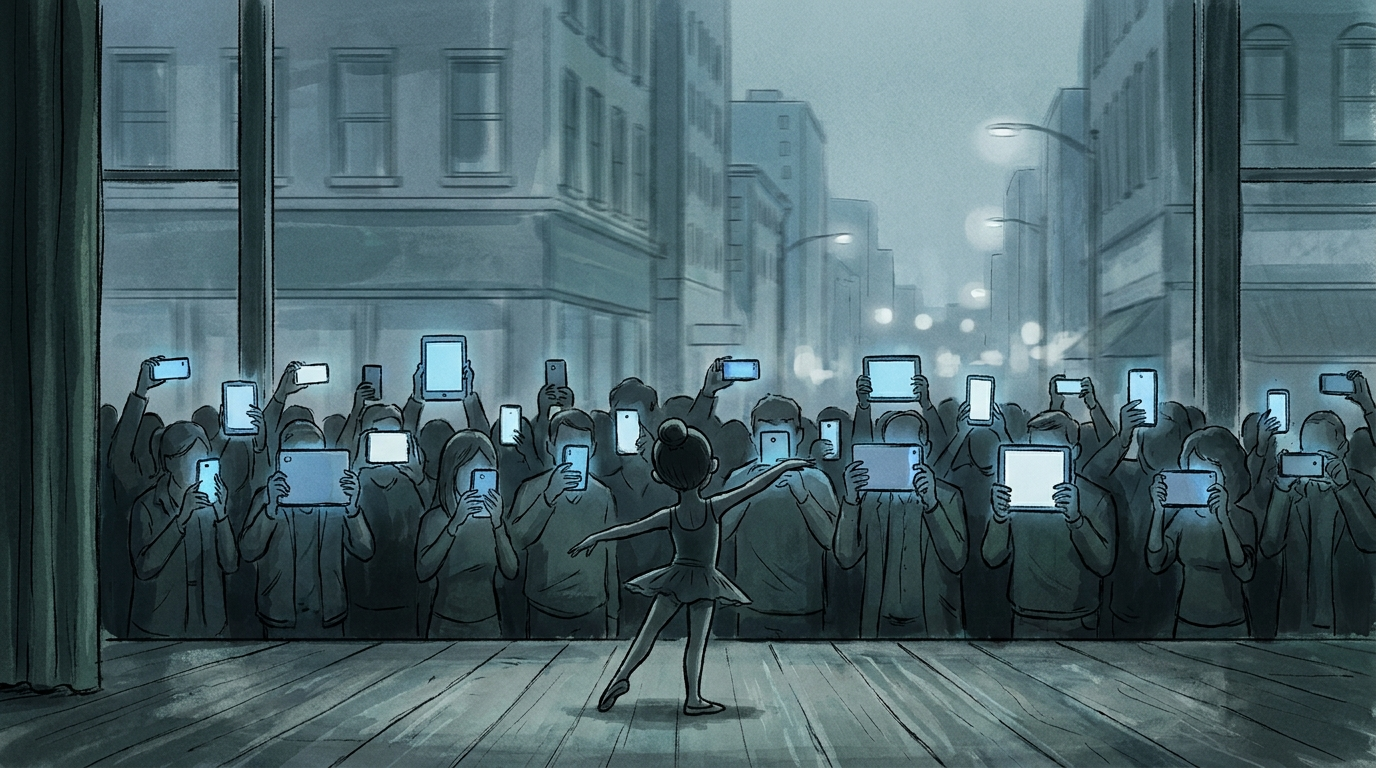
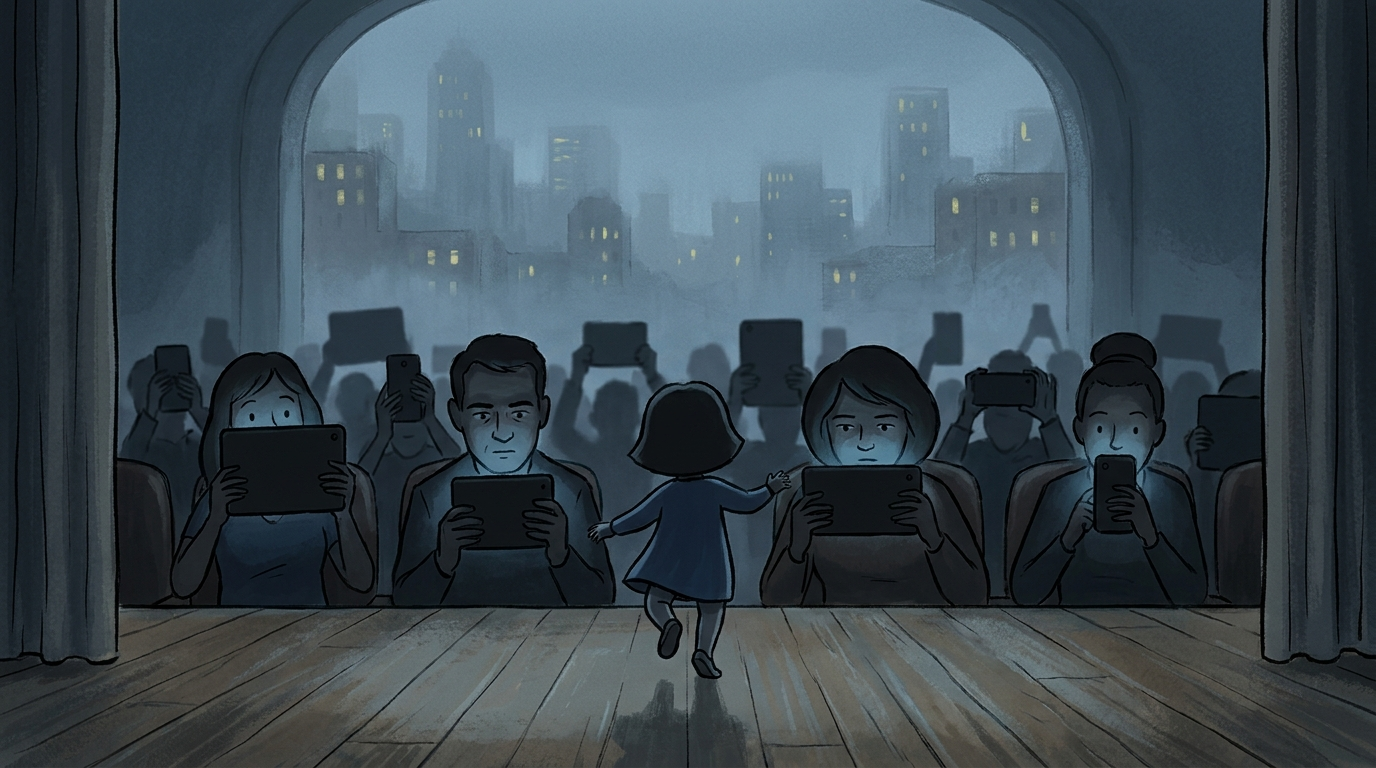
Fix recital shot device orientation, generate all remaining pending shots
The recital illustration was showing bright screen-faces toward camera;
physically the phones/tablets face the parents holding them. Regenerated
so we see dark device backs with only face-lit glow spilling onto each
parent, devices dark silhouettes.

Also generates the 9 shots that were pending on image quota: the
intention-setting trio (Daily Pulse screen, ring pulse, the "yes" payoff),
the four climax match-cut vignettes (finish line, old photograph, the
wave, laughing friends), and the product-proof pair (exploded ring,
charging dock). The hero storyboard is now fully generated except shot
55 (testimonials), which stays real-footage-only by design.

Republishes both claude.ai artifacts and syncs builds.html counts.

diff --git a/journey-images/film.html b/journey-images/film.html
@@ -27,7 +27,7 @@
   @media(max-width:640px){.g{grid-template-columns:1fr}}
 </style>
 <h1>Here &amp; Now Together</h1>
-<p class="s">Pulse · hero film storyboard · 47 frames generated, 9 pending, 1 by design (never generated)</p>
+<p class="s">Pulse · hero film storyboard · 53 frames generated, 1 by design (never generated)</p>
 <div class="legend">
   <span><i style="background:var(--photo)"></i>Photograph — the lived present</span>
   <span><i style="background:var(--ink-illus)"></i>Illustration — the churn / the mind movie / the sync, painted</span>
@@ -46,7 +46,7 @@
     <figure><img src="film-25-couple-bed-before.png"/><span class="mtag"><i style="background:var(--photo)"></i>Photograph</span><figcaption><div class="t">6 · couple, before</div><div class="d">Both on their phones in bed, backs almost touching, blue glow.</div></figcaption></figure>
     <figure><img src="film-18-churn-montage.png"/><span class="mtag"><i style="background:var(--ink-illus)"></i>Illustration</span><figcaption><div class="t">7 · churn montage</div><div class="d">One painted multiplane world — the train, the father, the couple, the crosswalk crowd — this is autopilot, everywhere at once. Frantic, seeking camera.</div></figcaption></figure>
     <figure><img src="film-19-churn-waiting-room.png"/><span class="mtag"><i style="background:var(--ink-illus)"></i>Illustration</span><figcaption><div class="t">8 · the waiting room</div><div class="d">A full room, every face lit by a phone, not one looking up. Frantic, seeking camera.</div></figcaption></figure>
-    <figure><img src="film-20-churn-recital.png"/><span class="mtag"><i style="background:var(--ink-illus)"></i>Illustration</span><figcaption><div class="t">9 · the recital</div><div class="d">A child dances to a wall of raised devices. Frantic camera, then the film's first true stillness.</div></figcaption></figure>
+    <figure><img src="film-20-churn-recital.png"/><span class="mtag"><i style="background:var(--ink-illus)"></i>Illustration</span><figcaption><div class="t">9 · the recital</div><div class="d">A child dances to a wall of raised devices, seen from the stage — the audience's phones and tablets show their dark backs to us, only spill-glow lighting each parent's face. Frantic camera, then the film's first true stillness.</div></figcaption></figure>
   </div>
 </div>
 
@@ -94,15 +94,15 @@
 </div>
 
 <div class="act">
-  <div class="k">The three reasons to look (new)</div>
+  <div class="k">The three reasons to look</div>
   <h2>Set your intention. Deepen your practice. Find the others.</h2>
   <p>Named in text, then shown in order. First, intention: a "Daily Pulse" screen, an intention chosen — "Say yes, more" — the ring confirming it with one pulse, and a quiet, organic payoff later that morning: a colleague asks, she says yes, easily. A second payoff plays the same idea from the opposite direction: two people mid-disagreement, a ring buzzes, and he softens instead of saying something sharp — the magical serendipity of timing that presence brings. Then practice (the breath meter), then finding the others — which plays a trick on the audience before revealing what the screen was actually for.</p>
   <div class="g">
-    <figure class="pending"><figcaption><div class="t">26 · Daily Pulse</div><div class="d">"Today I intend to..." — she selects "Say yes, more." Pending — image quota resets in ~20h.</div></figcaption></figure>
-    <figure class="pending"><figcaption><div class="t">27 · the ring pulses</div><div class="d">One small pulse of light. The intention is set. Pending — image quota resets in ~20h.</div></figcaption></figure>
+    <figure><img src="film-44-daily-pulse-intention.png"/><span class="mtag"><i style="background:var(--photo)"></i>Photograph</span><figcaption><div class="t">26 · Daily Pulse</div><div class="d">"Today I intend to..." — she selects "Say yes, more."</div></figcaption></figure>
+    <figure><img src="film-45-intention-ring-pulse.png"/><span class="mtag"><i style="background:var(--photo)"></i>Photograph</span><figcaption><div class="t">27 · the ring pulses</div><div class="d">One small pulse of light. The intention is set.</div></figcaption></figure>
     <figure><img src="film-34-screen-breath-meter.png"/><span class="mtag"><i style="background:var(--photo)"></i>Photograph</span><figcaption><div class="t">28 · screen insert, breath meter</div><div class="d">"Pulses scheduled: 3 today." Deliberate, not ambient.</div></figcaption></figure>
     <figure><img src="film-35-eyes-opening.png"/><span class="mtag"><i style="background:var(--photo)"></i>Photograph</span><figcaption><div class="t">29 · eyes opening</div><div class="d">The exact instant a short practice ends.</div></figcaption></figure>
-    <figure class="pending"><figcaption><div class="t">30 · the payoff</div><div class="d">A colleague asks, she says yes — the ramp begins. Pending — image quota resets in ~20h.</div></figcaption></figure>
+    <figure><img src="film-46-intention-payoff-yes.png"/><span class="mtag"><i style="background:var(--photo)"></i>Photograph</span><figcaption><div class="t">30 · the payoff</div><div class="d">A colleague asks, she says yes — the ramp begins.</div></figcaption></figure>
     <figure><img src="film-53-the-softening.png"/><span class="mtag"><i style="background:var(--photo)"></i>Photograph</span><figcaption><div class="t">31 · the softening</div><div class="d">His ring buzzes right as he's about to say something sharp. He softens instead — the same serendipity of timing, from the other direction.</div></figcaption></figure>
     <figure><img src="film-36-pov-stranger-ring.png"/><span class="mtag"><i style="background:var(--photo)"></i>Photograph</span><figcaption><div class="t">32 · POV, the ring ahead</div><div class="d">A glint of gold on a stranger's hand, up the sidewalk.</div></figcaption></figure>
     <figure><img src="film-37-stranger-on-phone-misdirect.png"/><span class="mtag"><i style="background:var(--photo)"></i>Photograph</span><figcaption><div class="t">33 · the misdirect</div><div class="d">Looks exactly like a churn shot. Isn't one.</div></figcaption></figure>
@@ -122,22 +122,22 @@
 <div class="act">
   <div class="k">Act III · together — the climax</div>
   <h2>The moment we were waiting for is right here.</h2>
-  <p>The sync scales beyond what any camera could shoot — so it returns to illustration, the same painterly grammar as the churn, now warm instead of cold, and fully composed. The rapid montage picks up three small, real moments straight from the picture room's own image library — no new generation needed — before four new match-cut vignettes widen the emotional range further: triumph, grief-relief, awe, joy — all cut on the exact same beat: eyes close, one exhale, the body settles into presence.</p>
+  <p>The sync scales beyond what any camera could shoot — so it returns to illustration, the same painterly grammar as the churn, now warm instead of cold, and fully composed. The rapid montage picks up three small, real moments straight from the picture room's own image library — no new generation needed — before four match-cut vignettes widen the emotional range further: triumph, grief-relief, awe, joy — all cut on the exact same beat: eyes close, one exhale, the body settles into presence.</p>
   <div class="g">
     <figure><img src="film-17-sync-hands.png"/><span class="mtag"><i style="background:var(--photo)"></i>Photograph</span><figcaption><div class="t">39 · many hands, one moment</div><div class="d">Every skin tone, every hand, pulsing together.</div></figcaption></figure>
     <figure><img src="film-32-rapid-sync-montage.png"/><span class="mtag"><i style="background:var(--photo)"></i>Photograph</span><figcaption><div class="t">40 · rapid montage</div><div class="d">A rooftop, a kitchen, a train, a park — four lives landing at the exact same instant.</div></figcaption></figure>
     <figure><img src="film-51-library-dishes.png"/><span class="mtag"><i style="background:var(--photo)"></i>Photograph</span><figcaption><div class="t">41 · hands in soapy water</div><div class="d">Reused from the picture room's library. Small, easy to miss, the ring visible in the suds.</div></figcaption></figure>
     <figure><img src="film-52-library-orange.png"/><span class="mtag"><i style="background:var(--photo)"></i>Photograph</span><figcaption><div class="t">42 · peeling an orange</div><div class="d">Reused from the picture room's library. Ordinary, unhurried, entirely here.</div></figcaption></figure>
     <figure><img src="film-53-library-elevator.png"/><span class="mtag"><i style="background:var(--photo)"></i>Photograph</span><figcaption><div class="t">43 · the elevator, ten seconds</div><div class="d">Reused from the picture room's library. Doing nothing at all, on purpose.</div></figcaption></figure>
-    <figure class="pending"><figcaption><div class="t">44 · match cut, the finish line</div><div class="d">Triumph settling into stillness. Pending — image quota resets in ~20h.</div></figcaption></figure>
-    <figure class="pending"><figcaption><div class="t">45 · match cut, the old photograph</div><div class="d">Grief and relief in the same instant. Pending — image quota resets in ~20h.</div></figcaption></figure>
-    <figure class="pending"><figcaption><div class="t">46 · match cut, the wave</div><div class="d">Awe, held. Pending — image quota resets in ~20h.</div></figcaption></figure>
-    <figure class="pending"><figcaption><div class="t">47 · match cut, the laughing friends</div><div class="d">Joy resolving into connection. Pending — image quota resets in ~20h.</div></figcaption></figure>
+    <figure><img src="film-47-peak-runner-finish.png"/><span class="mtag"><i style="background:var(--photo)"></i>Photograph</span><figcaption><div class="t">44 · match cut, the finish line</div><div class="d">Triumph settling into stillness.</div></figcaption></figure>
+    <figure><img src="film-48-peak-grandmother-photo.png"/><span class="mtag"><i style="background:var(--photo)"></i>Photograph</span><figcaption><div class="t">45 · match cut, the old photograph</div><div class="d">Grief and relief in the same instant.</div></figcaption></figure>
+    <figure><img src="film-49-peak-surfer-wave.png"/><span class="mtag"><i style="background:var(--photo)"></i>Photograph</span><figcaption><div class="t">46 · match cut, the wave</div><div class="d">Awe, held.</div></figcaption></figure>
+    <figure><img src="film-50-peak-friends-laughing.png"/><span class="mtag"><i style="background:var(--photo)"></i>Photograph</span><figcaption><div class="t">47 · match cut, the laughing friends</div><div class="d">Joy resolving into connection.</div></figcaption></figure>
     <figure><img src="film-06-sync-festival.png"/><span class="mtag"><i style="background:var(--photo)"></i>Photograph</span><figcaption><div class="t">48 · the synchronization</div><div class="d">A festival field at golden hour, strangers landing together.</div></figcaption></figure>
     <figure><img src="film-33-two-strangers-embrace.png"/><span class="mtag"><i style="background:var(--photo)"></i>Photograph</span><figcaption><div class="t">49 · two strangers, embracing</div><div class="d">General crowd coverage — a different pair from the recognition beat.</div></figcaption></figure>
     <figure><img src="film-40-constellation-field-of-light.png"/><span class="mtag"><i style="background:var(--ink-illus)"></i>Illustration</span><figcaption><div class="t">51 · the constellation</div><div class="d">The churn's cold city, redeemed — threads of gold now actively finding each other, the "Find the Others" screen made vast.</div></figcaption></figure>
-    <figure class="pending"><figcaption><div class="t">53 · the ring, exploded</div><div class="d">The vibrating element, the source of the glow, made visible for the first time. Pending — image quota resets in ~20h.</div></figcaption></figure>
-    <figure class="pending"><figcaption><div class="t">54 · battery life</div><div class="d">"14 hours of presence." The ring on its charging dock. Pending — image quota resets in ~20h.</div></figcaption></figure>
+    <figure><img src="film-51-ring-exploded.png"/><span class="mtag"><i style="background:var(--photo)"></i>Photograph</span><figcaption><div class="t">53 · the ring, exploded</div><div class="d">The vibrating element, the source of the glow, made visible for the first time.</div></figcaption></figure>
+    <figure><img src="film-52-ring-charging.png"/><span class="mtag"><i style="background:var(--photo)"></i>Photograph</span><figcaption><div class="t">54 · battery life</div><div class="d">"14 hours of presence." The ring on its charging dock.</div></figcaption></figure>
     <figure class="pending"><figcaption><div class="t">55 · testimonials montage</div><div class="d">Real user words, styled with the site's existing mixed-media treatment. Never generated, by design — proof has to be real.</div></figcaption></figure>
     <figure><img src="film-41-hybrid-ring-water.png"/><span class="mtag"><i style="background:var(--warm-hybrid)"></i>Hybrid</span><figcaption><div class="t">56 · the double seam</div><div class="d">The ring at water's edge, split down the center — photoreal water / illustrated ring on the right, illustrated water / photoreal ring on the left.</div></figcaption></figure>
     <figure><img src="film-08-tag-ring.png"/><span class="mtag"><i style="background:var(--photo)"></i>Photograph</span><figcaption><div class="t">57 · tag · the ring</div><div class="d">One ring. One pulse. The ripple settles.</div></figcaption></figure>

diff --git a/builds.html b/builds.html
@@ -246,7 +246,7 @@
     <a class="card" href="journey-images/film.html">
       <div class="card__top"><span class="card__n">F2</span><span class="status live">Live</span></div>
       <h3>The film storyboard</h3>
-      <p>45 frames generated (42 from Nano Banana Pro, 3 reused from the picture room's existing image library — soapy water, an orange, an elevator), plus 9 more queued and 1 by design never generated, organized by act and tagged by medium: an illustrated bubble-train open dissolving into the live churn, "the mind movie," an intention-setting scene (a "Daily Pulse" screen, a confirming pulse, an organic real-world payoff, and its counterpart "the softening" — a ring's buzz catching someone a half-second before they'd have said something sharp), "finding the others" — a screen-insert misdirect that reveals itself as the app's anonymous nearby-matching feature, paying off in the film's only spoken dialogue — the café/father/couple returns, a montage widening from small reused moments to four peak-experience match cuts, the festival synchronization and the constellation climax, a closing product-proof beat (the ring exploded to reveal its vibrating element, the battery spec, a real-testimonials montage that's intentionally never AI-generated), and the double-seam ring tag half painted and half real.</p>
+      <p>53 frames generated (50 from Nano Banana Pro, 3 reused from the picture room's existing image library — soapy water, an orange, an elevator), plus 1 by design never generated, organized by act and tagged by medium: an illustrated bubble-train open dissolving into the live churn, "the mind movie," an intention-setting scene (a "Daily Pulse" screen, a confirming pulse, an organic real-world payoff, and its counterpart "the softening" — a ring's buzz catching someone a half-second before they'd have said something sharp), "finding the others" — a screen-insert misdirect that reveals itself as the app's anonymous nearby-matching feature, paying off in the film's only spoken dialogue — the café/father/couple returns, a montage widening from small reused moments to four peak-experience match cuts, the festival synchronization and the constellation climax, a closing product-proof beat (the ring exploded to reveal its vibrating element, the battery spec, a real-testimonials montage that's intentionally never AI-generated), and the double-seam ring tag half painted and half real.</p>
       <div class="path">journey-images/film.html · tools/generate-film-storyboard.py</div>
       <div class="card__arrow">Open →</div>
     </a>

diff --git a/tools/generate-film-storyboard.py b/tools/generate-film-storyboard.py
@@ -102,7 +102,7 @@ FRAMES = [
  ("19-churn-waiting-room", "16:9", None,
   "A waiting room at dusk: a row of people side by side, every one of them looking down at a phone, not one face lifted, empty chairs between them though the room is full. Cold and quiet. " + ILLUS_COLD),
  ("20-churn-recital", "16:9", None,
-  "A child's dance recital on a small stage; in the audience, parents hold up phones filming instead of watching, screens glowing, the child performing to a wall of raised devices. Cold and quiet. " + ILLUS_COLD),
+  "A child's dance recital on a small stage, seen from the stage looking out at the audience. Parents hold up phones and tablets filming instead of watching — camera-accurate: we see the dark, matte BACKS of every device, held facing the parents' own faces, not the camera. The only light from the screens is a faint blue glow spilling up onto each parent's face and chin from below/in front of them, illuminating their expressions while the device bodies themselves stay dark silhouettes. The child performs to a wall of raised device-backs. Cold and quiet. " + ILLUS_COLD),
  # the mind movie — the churn was never only phones. A person can be fully present in body and
  # still gone, replaying or rehearsing a scene only they can see. Made literal: a small, faint,
  # translucent film-frame hovers just beside their head, its own private screening, dimmer and